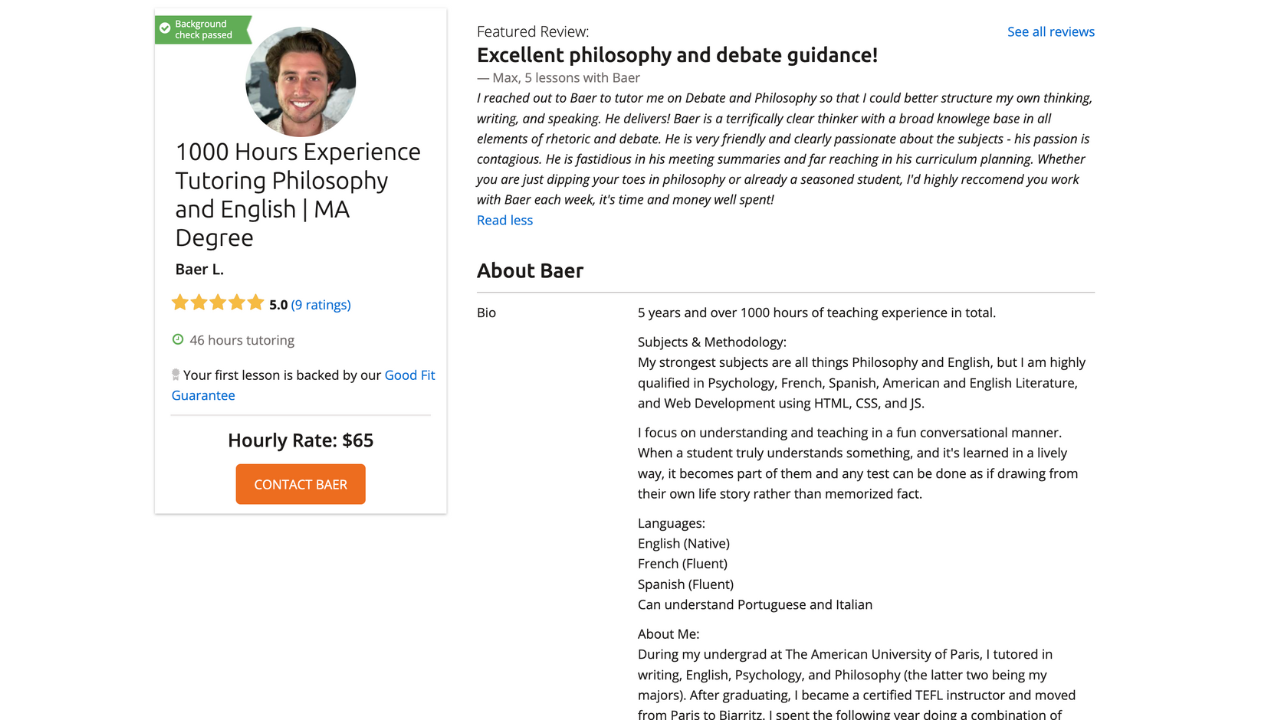
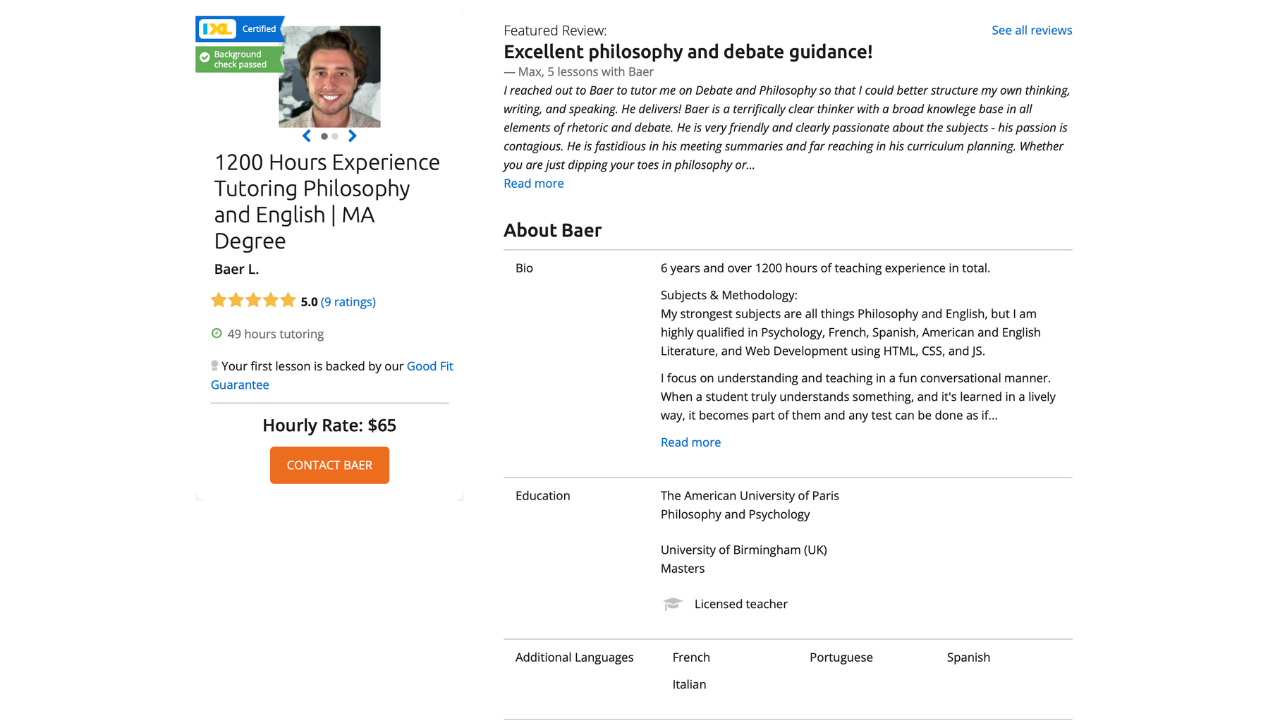
updated portfolio

diff --git a/src/resumeData.js b/src/resumeData.js
@@ -236,7 +236,7 @@ let resumeData = {
     },
     {
       "name":"Chez Andréa Cuisine",
-      "description":"A Cooking Class/Slow Foodie Shopify Site I Recently Created For a Client. ",
+      "description":"A Cooking Class Shopify Site I Recently Created For a Client. ",
       "imgurl":"./images/portfolio/ChezAndréaCuisine.png",
       "url":"https://www.chezandreacuisine.com/"
     },
@@ -278,7 +278,7 @@ let resumeData = {
     },
     {
       "name":"Tutoring Profile",
-      "description":"My Wyzant Tutoring Profile (as of May 24, 2024)",
+      "description":"My Wyzant Tutoring Profile (as of October 23, 2024)",
       "imgurl":"./images/portfolio/WyzantProf.png",
       "url": "https://www.wyzant.com/Tutors/ateachingBaer"
     }

diff --git a/src/components/Portfolio.js b/src/components/Portfolio.js
@@ -6,7 +6,7 @@ export default class Porfolio extends Component {
       <section id="portfolio">
       <div className="row">
         <div className="twelve columns collapsed">
-          <h1>Some of My Current and Past Projects</h1>
+          <h1>Some of My Favorites</h1>
           <div id="portfolio-wrapper" className="bgrid-quarters s-bgrid-thirds cf">
           {
             resumeData.portfolio && resumeData.portfolio.map((item)=>{
